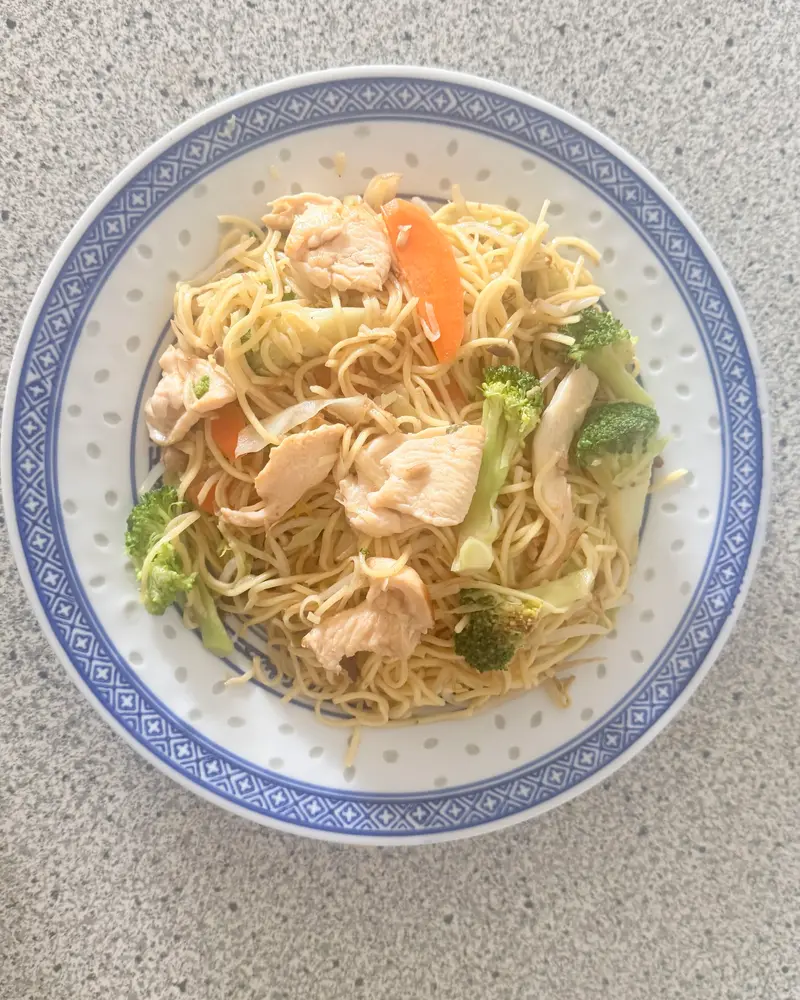
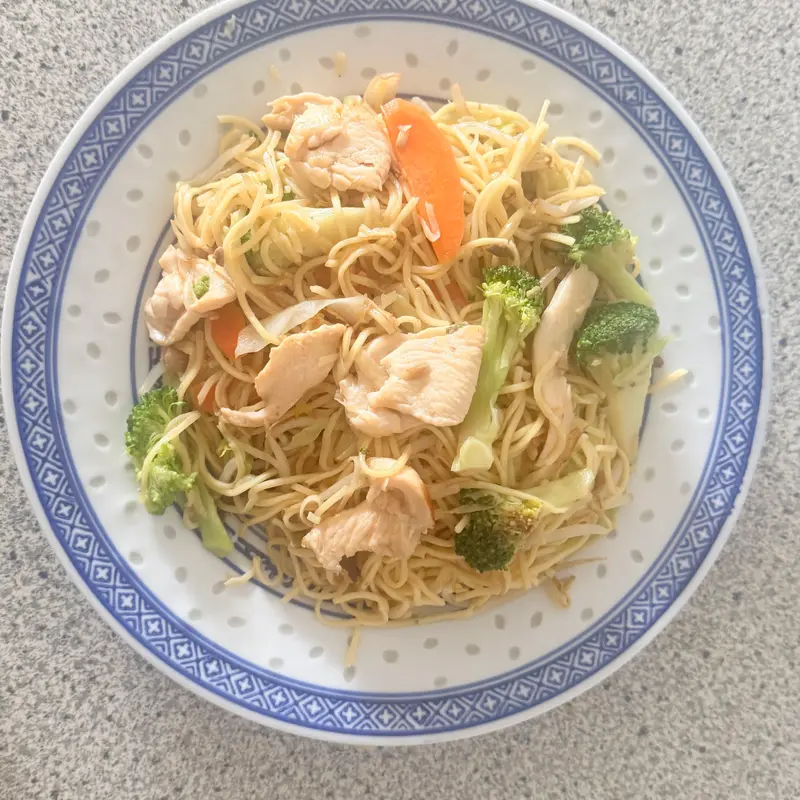
Kvadratiske signaturkort så hele tallerkenen ses
Skifter kortene fra 4:5 til 1:1. Kvadratformatet er bredt nok til at det
liggende nr. 4-foto kan vise HELE tallerkenen uden at skære siderne af –
og alle tre kort forbliver ensartede uden tågede udfyldningsbånd.

Claude-Session: https://claude.ai/code/session_01N8kfVxExxiRKeEkhouU4f5

diff --git a/src/components/SignaturRetter.jsx b/src/components/SignaturRetter.jsx
@@ -80,7 +80,7 @@ function SignaturRetter() {
                 ref={(node) => (slideRefs.current[index] = node)}
                 className="w-[84vw] max-w-sm shrink-0 snap-center sm:w-auto sm:max-w-none"
               >
-                <div className="group relative aspect-[4/5] overflow-hidden rounded-2xl bg-green-deep-light/40 shadow-lg ring-1 ring-cream/10">
+                <div className="group relative aspect-square overflow-hidden rounded-2xl bg-green-deep-light/40 shadow-lg ring-1 ring-cream/10">
                   <picture>
                     <source
                       type="image/webp"
@@ -90,7 +90,7 @@ function SignaturRetter() {
                     <img
                       src={`${IMG_BASE}/${item.image}-800.webp`}
                       width={800}
-                      height={1000}
+                      height={800}
                       alt={item.alt}
                       loading="lazy"
                       decoding="async"
